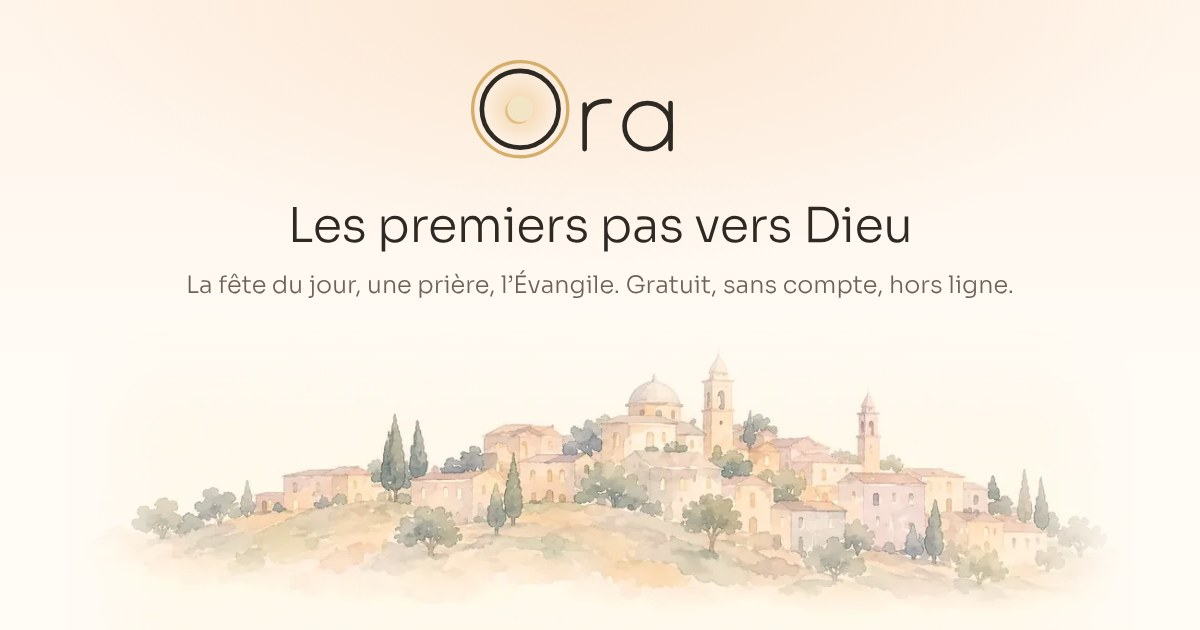
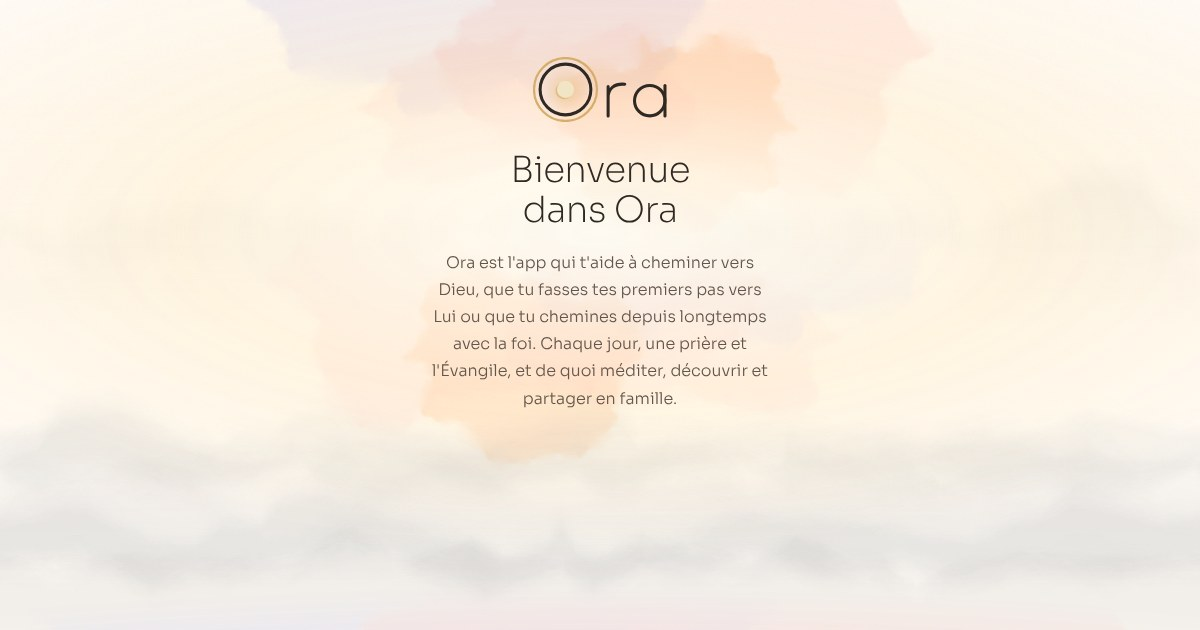
Aperçu de lien : l'écran de bienvenue lui-même, dans les trois langues
Claude-Session: https://claude.ai/code/session_0196ydQFmaQnBobAw6Q2y82i

Changed region(s): [[0.0, 0.0603, 0.9867, 0.9651]]

diff --git a/src/index.html b/src/index.html
@@ -26,7 +26,7 @@
 <meta property="og:image" content="https://ora-app.co/og-fr.jpg">
 <meta property="og:image:width" content="1200">
 <meta property="og:image:height" content="630">
-<meta property="og:image:alt" content="Le logo d'Ora au-dessus d'un village peint à l'aquarelle, avec la phrase « Les premiers pas vers Dieu ».">
+<meta property="og:image:alt" content="L'écran de bienvenue d'Ora : le logo, « Bienvenue dans Ora » et une courte présentation, dans un ciel d'aquarelle.">
 <meta property="og:locale" content="fr_FR">
 <meta property="og:locale:alternate" content="es_ES">
 <meta property="og:locale:alternate" content="en_US">
